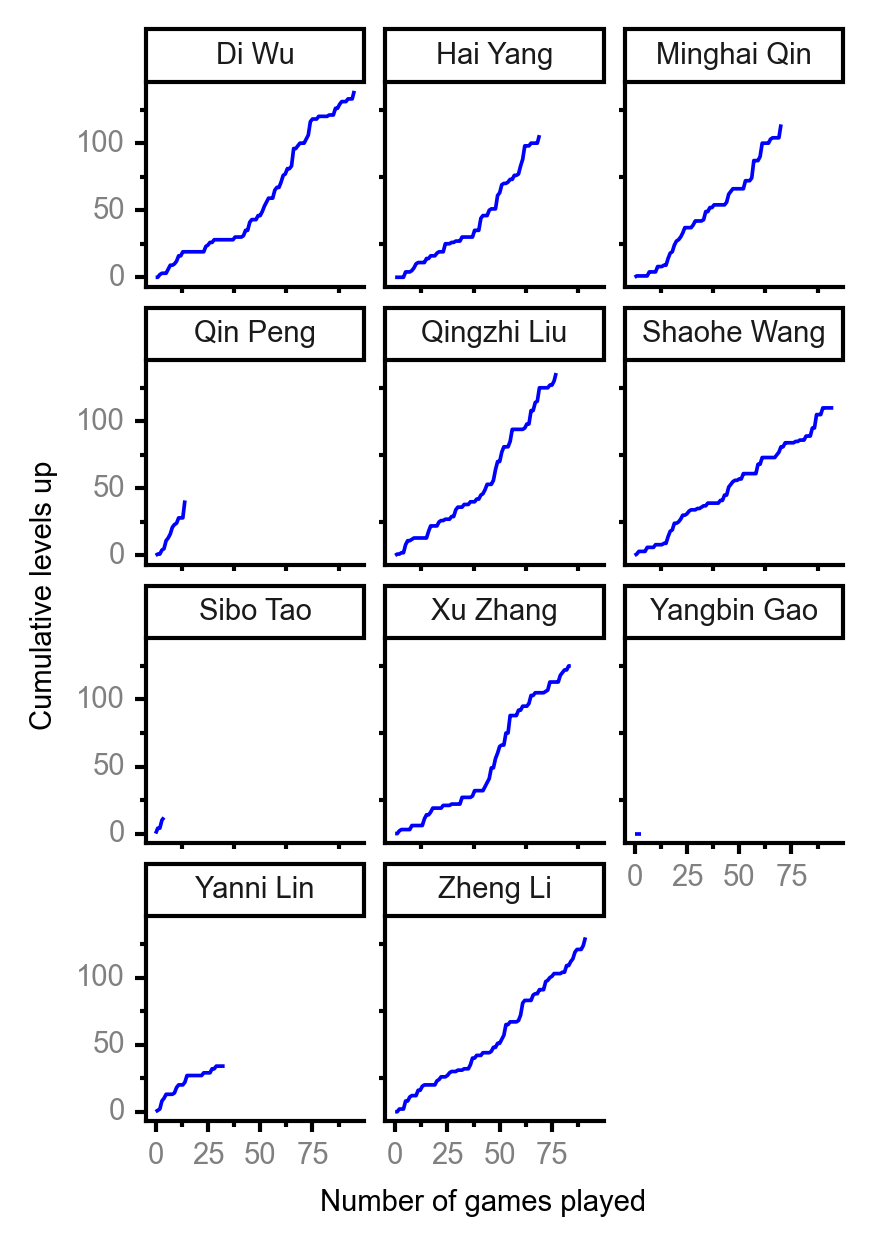
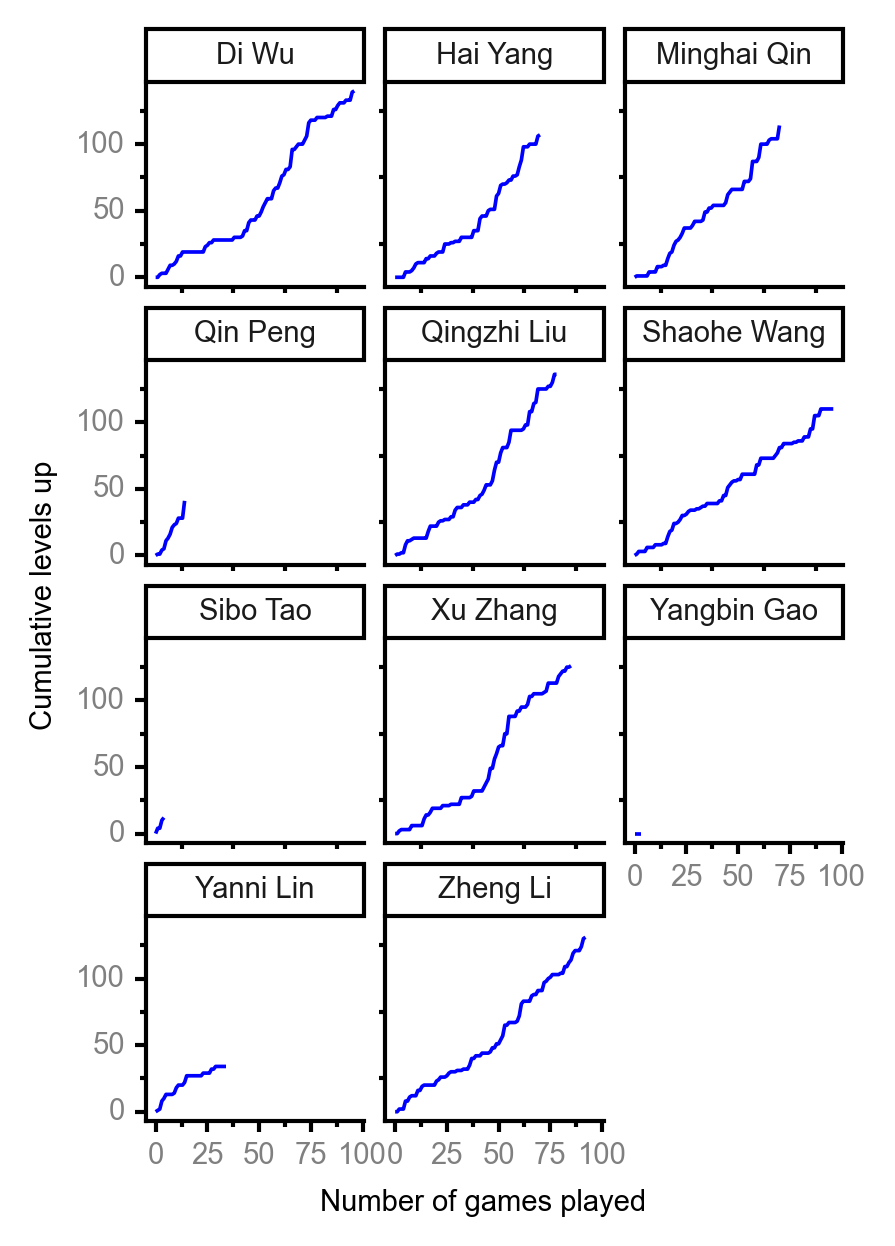
update player stats

diff --git a/player_stats.md b/player_stats.md
@@ -10,15 +10,15 @@ date: 2020-12-26
 
 | <br><br><br>Rank | <br><br><br>Player | <br> Lifetime <br> levels <br> up | <br><br> Winning <br> rate | <br> Average <br> levels <br> up | <br> Total <br> games <br> played | Games <br> played <br> as <br> MVP | Games <br> played <br> as <br> dealer | N_games <br> short <br> staffed <br> as dealer | Winning <br> rate <br> as <br> dealer |
 |:---:|:---:|:---:|:---:|:---:|:---:|:---:|:---:|:---:|:---:|
-| 1 | Di <br> Wu | 140 | 47.9% | 3.04 | 96 | 4 | 15 | 0 | 46.7% |
-| 2 | Qingzhi <br> Liu | 136 | 52.6% | 3.32 | 78 | 0 | 12 | 3 | 50.0% |
-| 3 | Zheng <br> Li | 131 | 57.6% | 2.47 | 92 | 2 | 16 | 0 | 62.5% |
-| 4 | Xu <br> Zhang | 126 | 45.9% | 3.23 | 85 | 1 | 11 | 0 | 36.4% |
+| 1 | Di <br> Wu | 140 | 47.4% | 3.04 | 97 | 4 | 15 | 0 | 46.7% |
+| 2 | Qingzhi <br> Liu | 137 | 53.2% | 3.26 | 79 | 0 | 12 | 3 | 50.0% |
+| 3 | Zheng <br> Li | 131 | 57.0% | 2.47 | 93 | 2 | 16 | 0 | 62.5% |
+| 4 | Xu <br> Zhang | 127 | 46.5% | 3.17 | 86 | 1 | 11 | 0 | 36.4% |
 | 5 | Minghai <br> Qin | 117 | 52.1% | 3.16 | 71 | 0 | 10 | 1 | 70.0% |
-| 6 | Shaohe <br> Wang | 110 | 46.9% | 2.44 | 96 | 0 | 16 | 1 | 37.5% |
-| 7 | Hai <br> Yang | 107 | 47.1% | 3.24 | 70 | 2 | 10 | 1 | 40.0% |
+| 6 | Shaohe <br> Wang | 110 | 46.4% | 2.44 | 97 | 0 | 16 | 1 | 37.5% |
+| 7 | Hai <br> Yang | 108 | 47.9% | 3.18 | 71 | 2 | 11 | 1 | 45.5% |
 | 8 | Qin <br> Peng | 41 | 80.0% | 3.42 | 15 | 1 | 2 | 0 | 100.0% |
-| 9 | Yanni <br> Lin | 34 | 38.2% | 2.62 | 34 | 0 | 3 | 1 | 66.7% |
+| 9 | Yanni <br> Lin | 34 | 37.1% | 2.62 | 35 | 1 | 3 | 1 | 66.7% |
 | 10 | Sibo <br> Tao | 14 | 80.0% | 3.50 | 5 | 0 | 0 | 0 | 0.0% |
 | 11 | Yangbin <br> Gao | 0 | 0.0% | 0.00 | 4 | 0 | 0 | 0 | 0.0% |
 
